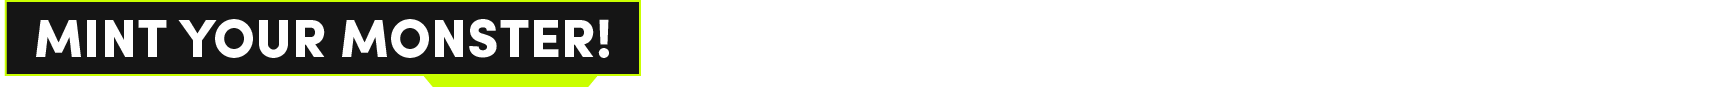
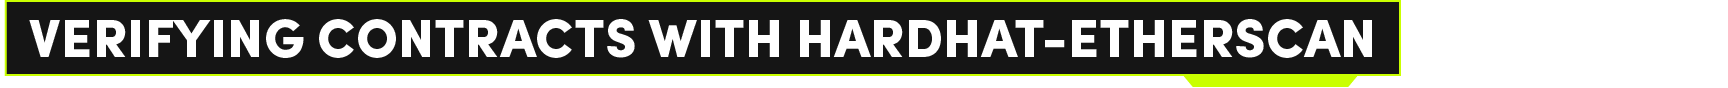
GITBOOK-227: No subject

diff --git a/boba_documentation/developer/verify-smart-contracts.md b/boba_documentation/developer/verify-smart-contracts.md
@@ -2,11 +2,15 @@
 description: Learn how to verify smart contracts on Boba
 ---
 
+# Verifying Contracts
+
 The Boba Explorers support verifying smart contracts via the [hardhat-etherscan](https://hardhat.org/hardhat-runner/plugins/nomiclabs-hardhat-etherscan#hardhat-etherscan) plug
 
-## Verify contracts with hardhat-etherscan
 
-## Installation
+
+<figure><img src="../../.gitbook/assets/Artboard 1 (16).png" alt=""><figcaption></figcaption></figure>
+
+### Installation
 
 ```bash
 npm install --save-dev @nomiclabs/hardhat-etherscan
@@ -24,7 +28,7 @@ Or, if you are using TypeScript, add this to your `hardhat.config.ts`:
 import "@nomiclabs/hardhat-etherscan";
 ```
 
-## Usage
+### Usage
 
 You need to add the following Etherscan config to your `hardhat.config.js` file:
 
@@ -108,12 +112,14 @@ Lastly, run the `verify` task, passing the address of the contract, the network 
 npx hardhat verify --network mainnet DEPLOYED_CONTRACT_ADDRESS "Constructor argument 1" "Constructor argument 2"
 ```
 
-## Verify contracts with Blockscout
+
+
+<figure><img src="../../.gitbook/assets/Artboard 2 (16).png" alt=""><figcaption></figcaption></figure>
 
 On contract creation, you will receive an address to check a pending transaction. If it does not redirect you to block explorer, verify you are on the chain where the contract was deployed, and type the contract's address into the search bar. Your contract details should come up.
 
-![](../.gitbook/assets/085337.png)
+<figure><img src="../../.gitbook/assets/Artboard 46 (1).png" alt=""><figcaption></figcaption></figure>
 
 Once you have provided all the necessary information, hit 'Verify & Publish'
 
-![](../.gitbook/assets/085339.png)
+<figure><img src="../../.gitbook/assets/Artboard 46_1.png" alt=""><figcaption></figcaption></figure>

diff --git a/boba_documentation/hc/monsters.md b/boba_documentation/hc/monsters.md
@@ -4,7 +4,7 @@ description: Hybrid Compute Example - Minting NFTs with Random Attributes
 
 # Monster Minting
 
-<figure><img src="../../.gitbook/assets/Artboard 1 (16).png" alt=""><figcaption></figcaption></figure>
+<figure><img src="../../.gitbook/assets/Artboard 1 (16) (1).png" alt=""><figcaption></figcaption></figure>
 
 Clone the repository, open it, and install packages with `yarn`:
 
